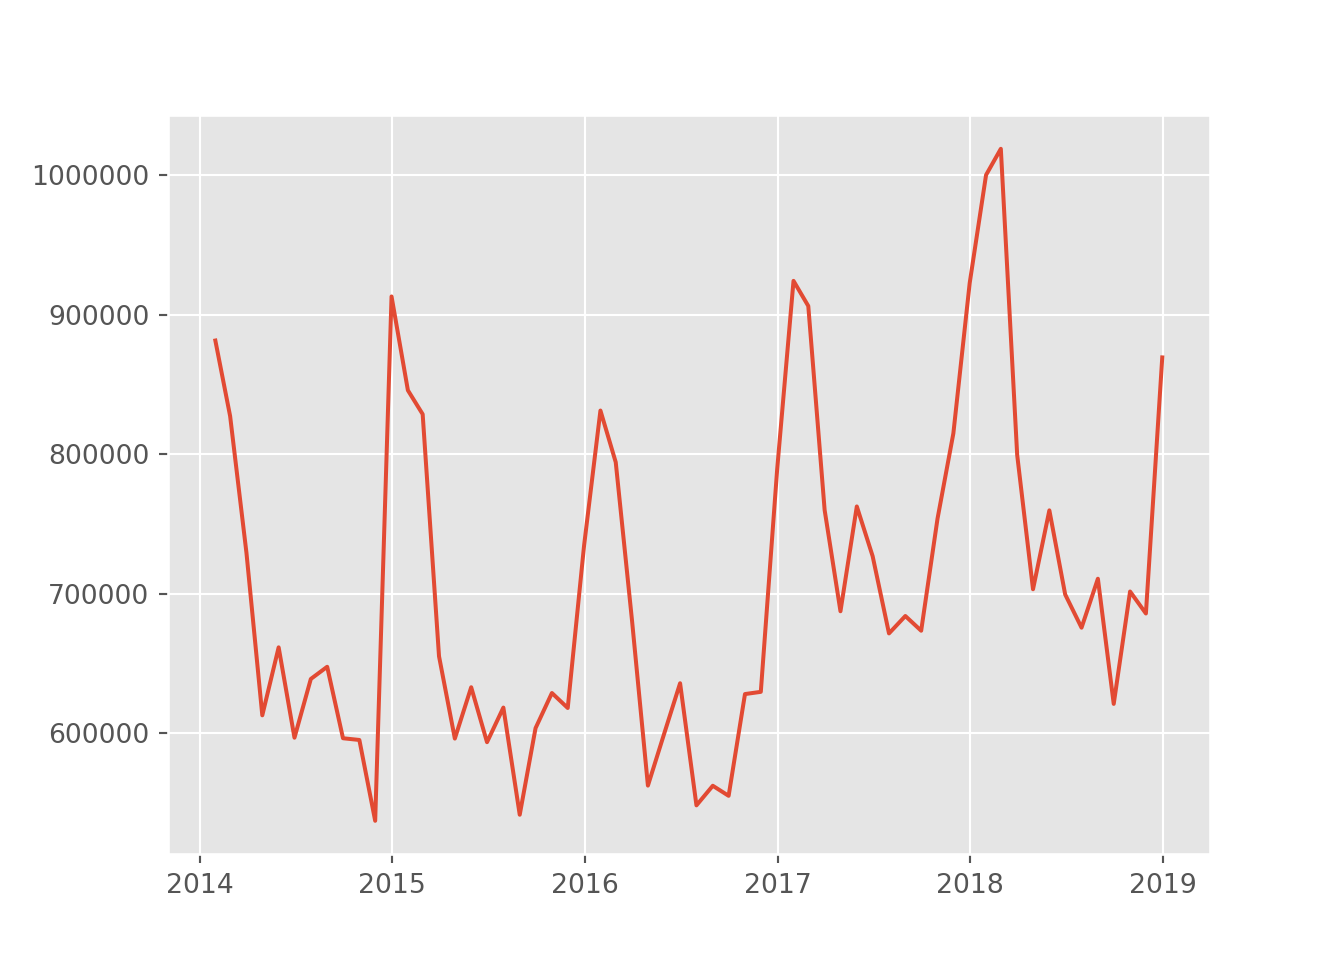
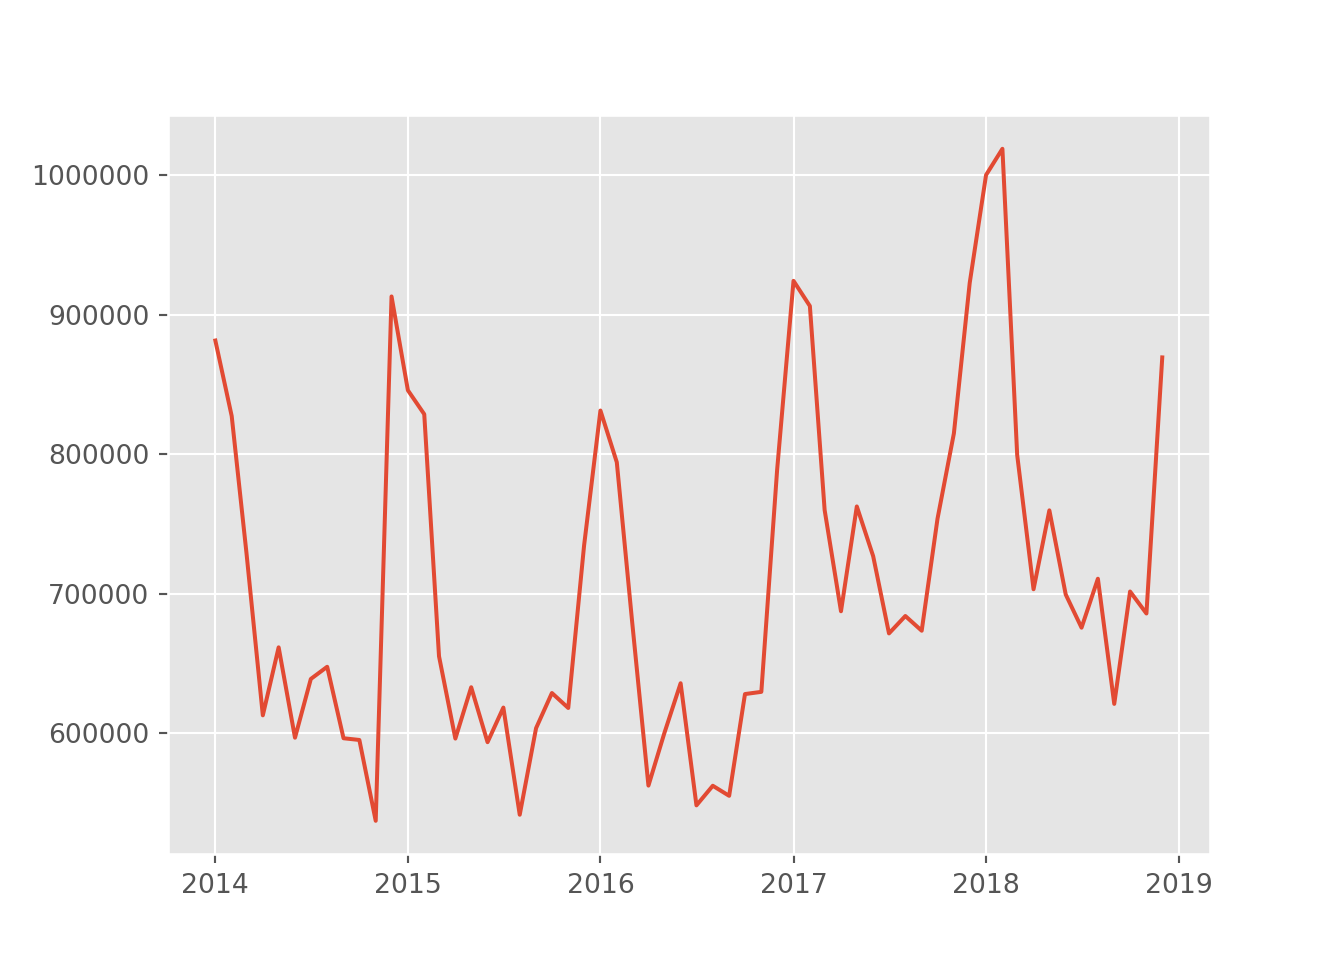
blogup20190818

diff --git a/docs/post/post15/index.html b/docs/post/post15/index.html
@@ -26,7 +26,7 @@
         "datePublished": "2019-08-15 00:00:00 \x2b0000 UTC",
         "dateModified" : "2019-08-15 00:00:00 \x2b0000 UTC",
         "url" : "\/my_blog\/post\/post15\/",
-        "wordCount" : "71",
+        "wordCount" : "159",
         "image" : "/my_blog/img/portfolio/earthengine6.jpg"",
         "keywords" : [ ""Earth Engine"",""Python"",""時系列解析"","Blog" ]   
     }
@@ -47,9 +47,9 @@
 
 <link rel="stylesheet" href="https://use.fontawesome.com/releases/v5.3.1/css/all.css" integrity="sha384-mzrmE5qonljUremFsqc01SB46JvROS7bZs3IO2EmfFsd15uHvIt+Y8vEf7N7fWAU" crossorigin="anonymous">
 
-<link href="/my_blog/css/style.css?v=1566023862" rel="stylesheet" id="theme-stylesheet" type='text/css' media='all'>
+<link href="/my_blog/css/style.css?v=1566138362" rel="stylesheet" id="theme-stylesheet" type='text/css' media='all'>
 
-<link href="/my_blog/css/custom.css?v=1566023862" rel="stylesheet" type='text/css' media='all'>
+<link href="/my_blog/css/custom.css?v=1566138362" rel="stylesheet" type='text/css' media='all'>
 <link rel="shortcut icon" href="/my_blog/img/favicon.ico" type="image/x-icon">
 <link rel="icon" href="/my_blog/img/favicon.ico" type="image/x-icon">
 
@@ -259,12 +259,14 @@ plt.style.use(&#39;ggplot&#39;)
 
 nightjp = nightjp_csv.assign(date=lambda nightjp_csv:pd.to_datetime(nightjp_csv[&#39;system:index&#39;]))
 nightjp.head()</code></pre>
-<pre><code>##   system:index          sum Country       date
-## 0    2014/1/31  881512.4572   Japan 2014-01-31
-## 1    2014/2/28  827345.3551   Japan 2014-02-28
-## 2    2014/3/31  729110.4619   Japan 2014-03-31
-## 3    2014/4/30  612665.8866   Japan 2014-04-30
-## 4    2014/5/31  661434.5027   Japan 2014-05-31</code></pre>
+<pre><code>##   system:index          sum    ...     Unnamed: 4       date
+## 0     2014/1/1  881512.4572    ...            NaN 2014-01-01
+## 1     2014/2/1  827345.3551    ...            NaN 2014-02-01
+## 2     2014/3/1  729110.4619    ...            NaN 2014-03-01
+## 3     2014/4/1  612665.8866    ...            NaN 2014-04-01
+## 4     2014/5/1  661434.5027    ...            NaN 2014-05-01
+## 
+## [5 rows x 6 columns]</code></pre>
 <pre class="python"><code>plt.plot(nightjp[&#39;date&#39;],nightjp[&#39;sum&#39;])</code></pre>
 <p><img src="/my_blog/post/post15_files/figure-html/unnamed-chunk-3-1.png" width="672" /></p>
 <p>かなり季節性があることがわかります。どうやら冬場に光量が大きくなる傾向になるようです。なので、季節調整をかけてみます。RではX-13ARIMA-SEATSをいつも使用していますが、rmarkdownからのpythonでの使い方がわからないので、statsmodels.apiのseasonal_decomposeを使います。冬場とそれ以外で挙動が異なるのでfreqは12にしてみました。</p>
@@ -273,6 +275,25 @@ nightjp = nightjp.set_index(&#39;date&#39;)
 nightjp_sm = sm.tsa.seasonal_decompose(nightjp[&#39;sum&#39;],freq=12,model=&#39;multiplicative&#39;)
 nightjp_sm.plot()</code></pre>
 <p><img src="/my_blog/post/post15_files/figure-html/unnamed-chunk-4-1.png" width="672" /></p>
+<p>季節性を除いたTrendが2016年半ばくらいから2017年下旬にかけて急激に上昇しています。おそらく、景況感とはあまり相関がなさそうな動きをしていますが、以下の記事を参考にestatからAPIで鉱工業生産指数のデータを落とし、検証してみます。</p>
+<p><a href="http://sinhrks.hatenablog.com/entry/2015/12/31/222207" class="uri">http://sinhrks.hatenablog.com/entry/2015/12/31/222207</a></p>
+<pre class="python"><code>import numpy as np
+import japandas as jpd
+import datetime 
+
+dlist = jpd.DataReader(&quot;00550300&quot;, &#39;estat&#39;, appid=key)
+tables = dlist[(dlist[&#39;統計表題名及び表番号&#39;].str.contains(&#39;付加価値額生産&#39;)) &amp; (dlist[&#39;提供統計名及び提供分類名&#39;].str.contains(&#39;鉱工業生産・出荷・在庫指数&#39;))]
+data = jpd.DataReader(&quot;0003325360&quot;, &#39;estat&#39;, appid=key)
+df = data[(data[&#39;業種別&#39;].str.contains(&#39;1000000000 鉱工業&#39;)) &amp; ~(data[&#39;統計項目A&#39;].str.contains(&#39;付加生産ウエイト&#39;))]
+df = df.set_index(pd.to_datetime(df[&quot;統計項目A&quot;], format=&quot;%Y%m&quot;))
+df.head()</code></pre>
+<pre><code>##             value             業種別   統計項目A
+## 統計項目A                                    
+## 2013-01-01   94.8  1000000000 鉱工業  201301
+## 2013-02-01   96.5  1000000000 鉱工業  201302
+## 2013-03-01   97.7  1000000000 鉱工業  201303
+## 2013-04-01   97.7  1000000000 鉱工業  201304
+## 2013-05-01   99.3  1000000000 鉱工業  201305</code></pre>
 
             </article>
           </div>
@@ -481,7 +502,7 @@ src="//cdn.bootcss.com/mathjax/2.7.1/MathJax.js?config=TeX-MML-AM_CHTML">
   </div>
   <script src="/my_blog/js/jquery.min.js"></script>
 <script src="/my_blog/js/jquerymigrate.js"></script>
-<script src="/my_blog/js/production.min.js?v=1566023862"></script>
+<script src="/my_blog/js/production.min.js?v=1566138362"></script>
 
 </body>
 </html>

diff --git a/content/post/post15.html b/content/post/post15.html
@@ -27,12 +27,14 @@ plt.style.use(&#39;ggplot&#39;)
 
 nightjp = nightjp_csv.assign(date=lambda nightjp_csv:pd.to_datetime(nightjp_csv[&#39;system:index&#39;]))
 nightjp.head()</code></pre>
-<pre><code>##   system:index          sum Country       date
-## 0    2014/1/31  881512.4572   Japan 2014-01-31
-## 1    2014/2/28  827345.3551   Japan 2014-02-28
-## 2    2014/3/31  729110.4619   Japan 2014-03-31
-## 3    2014/4/30  612665.8866   Japan 2014-04-30
-## 4    2014/5/31  661434.5027   Japan 2014-05-31</code></pre>
+<pre><code>##   system:index          sum    ...     Unnamed: 4       date
+## 0     2014/1/1  881512.4572    ...            NaN 2014-01-01
+## 1     2014/2/1  827345.3551    ...            NaN 2014-02-01
+## 2     2014/3/1  729110.4619    ...            NaN 2014-03-01
+## 3     2014/4/1  612665.8866    ...            NaN 2014-04-01
+## 4     2014/5/1  661434.5027    ...            NaN 2014-05-01
+## 
+## [5 rows x 6 columns]</code></pre>
 <pre class="python"><code>plt.plot(nightjp[&#39;date&#39;],nightjp[&#39;sum&#39;])</code></pre>
 <p><img src="/my_blog/post/post15_files/figure-html/unnamed-chunk-3-1.png" width="672" /></p>
 <p>かなり季節性があることがわかります。どうやら冬場に光量が大きくなる傾向になるようです。なので、季節調整をかけてみます。RではX-13ARIMA-SEATSをいつも使用していますが、rmarkdownからのpythonでの使い方がわからないので、statsmodels.apiのseasonal_decomposeを使います。冬場とそれ以外で挙動が異なるのでfreqは12にしてみました。</p>
@@ -41,3 +43,22 @@ nightjp = nightjp.set_index(&#39;date&#39;)
 nightjp_sm = sm.tsa.seasonal_decompose(nightjp[&#39;sum&#39;],freq=12,model=&#39;multiplicative&#39;)
 nightjp_sm.plot()</code></pre>
 <p><img src="/my_blog/post/post15_files/figure-html/unnamed-chunk-4-1.png" width="672" /></p>
+<p>季節性を除いたTrendが2016年半ばくらいから2017年下旬にかけて急激に上昇しています。おそらく、景況感とはあまり相関がなさそうな動きをしていますが、以下の記事を参考にestatからAPIで鉱工業生産指数のデータを落とし、検証してみます。</p>
+<p><a href="http://sinhrks.hatenablog.com/entry/2015/12/31/222207" class="uri">http://sinhrks.hatenablog.com/entry/2015/12/31/222207</a></p>
+<pre class="python"><code>import numpy as np
+import japandas as jpd
+import datetime 
+
+dlist = jpd.DataReader(&quot;00550300&quot;, &#39;estat&#39;, appid=key)
+tables = dlist[(dlist[&#39;統計表題名及び表番号&#39;].str.contains(&#39;付加価値額生産&#39;)) &amp; (dlist[&#39;提供統計名及び提供分類名&#39;].str.contains(&#39;鉱工業生産・出荷・在庫指数&#39;))]
+data = jpd.DataReader(&quot;0003325360&quot;, &#39;estat&#39;, appid=key)
+df = data[(data[&#39;業種別&#39;].str.contains(&#39;1000000000 鉱工業&#39;)) &amp; ~(data[&#39;統計項目A&#39;].str.contains(&#39;付加生産ウエイト&#39;))]
+df = df.set_index(pd.to_datetime(df[&quot;統計項目A&quot;], format=&quot;%Y%m&quot;))
+df.head()</code></pre>
+<pre><code>##             value             業種別   統計項目A
+## 統計項目A                                    
+## 2013-01-01   94.8  1000000000 鉱工業  201301
+## 2013-02-01   96.5  1000000000 鉱工業  201302
+## 2013-03-01   97.7  1000000000 鉱工業  201303
+## 2013-04-01   97.7  1000000000 鉱工業  201304
+## 2013-05-01   99.3  1000000000 鉱工業  201305</code></pre>

diff --git a/docs/post/post5/index.html b/docs/post/post5/index.html
@@ -47,9 +47,9 @@
 
 <link rel="stylesheet" href="https://use.fontawesome.com/releases/v5.3.1/css/all.css" integrity="sha384-mzrmE5qonljUremFsqc01SB46JvROS7bZs3IO2EmfFsd15uHvIt+Y8vEf7N7fWAU" crossorigin="anonymous">
 
-<link href="/my_blog/css/style.css?v=1566023863" rel="stylesheet" id="theme-stylesheet" type='text/css' media='all'>
+<link href="/my_blog/css/style.css?v=1566138362" rel="stylesheet" id="theme-stylesheet" type='text/css' media='all'>
 
-<link href="/my_blog/css/custom.css?v=1566023863" rel="stylesheet" type='text/css' media='all'>
+<link href="/my_blog/css/custom.css?v=1566138362" rel="stylesheet" type='text/css' media='all'>
 <link rel="shortcut icon" href="/my_blog/img/favicon.ico" type="image/x-icon">
 <link rel="icon" href="/my_blog/img/favicon.ico" type="image/x-icon">
 
@@ -1410,7 +1410,7 @@ src="//cdn.bootcss.com/mathjax/2.7.1/MathJax.js?config=TeX-MML-AM_CHTML">
   </div>
   <script src="/my_blog/js/jquery.min.js"></script>
 <script src="/my_blog/js/jquerymigrate.js"></script>
-<script src="/my_blog/js/production.min.js?v=1566023863"></script>
+<script src="/my_blog/js/production.min.js?v=1566138362"></script>
 
 </body>
 </html>

diff --git a/docs/about/index.html b/docs/about/index.html
@@ -47,9 +47,9 @@
 
 <link rel="stylesheet" href="https://use.fontawesome.com/releases/v5.3.1/css/all.css" integrity="sha384-mzrmE5qonljUremFsqc01SB46JvROS7bZs3IO2EmfFsd15uHvIt+Y8vEf7N7fWAU" crossorigin="anonymous">
 
-<link href="/my_blog/css/style.css?v=1566023863" rel="stylesheet" id="theme-stylesheet" type='text/css' media='all'>
+<link href="/my_blog/css/style.css?v=1566138362" rel="stylesheet" id="theme-stylesheet" type='text/css' media='all'>
 
-<link href="/my_blog/css/custom.css?v=1566023863" rel="stylesheet" type='text/css' media='all'>
+<link href="/my_blog/css/custom.css?v=1566138362" rel="stylesheet" type='text/css' media='all'>
 <link rel="shortcut icon" href="/my_blog/img/favicon.ico" type="image/x-icon">
 <link rel="icon" href="/my_blog/img/favicon.ico" type="image/x-icon">
 
@@ -444,7 +444,7 @@ src="//cdn.bootcss.com/mathjax/2.7.1/MathJax.js?config=TeX-MML-AM_CHTML">
   </div>
   <script src="/my_blog/js/jquery.min.js"></script>
 <script src="/my_blog/js/jquerymigrate.js"></script>
-<script src="/my_blog/js/production.min.js?v=1566023863"></script>
+<script src="/my_blog/js/production.min.js?v=1566138362"></script>
 
 </body>
 </html>

diff --git a/docs/contact/index.html b/docs/contact/index.html
@@ -47,9 +47,9 @@
 
 <link rel="stylesheet" href="https://use.fontawesome.com/releases/v5.3.1/css/all.css" integrity="sha384-mzrmE5qonljUremFsqc01SB46JvROS7bZs3IO2EmfFsd15uHvIt+Y8vEf7N7fWAU" crossorigin="anonymous">
 
-<link href="/my_blog/css/style.css?v=1566023863" rel="stylesheet" id="theme-stylesheet" type='text/css' media='all'>
+<link href="/my_blog/css/style.css?v=1566138362" rel="stylesheet" id="theme-stylesheet" type='text/css' media='all'>
 
-<link href="/my_blog/css/custom.css?v=1566023863" rel="stylesheet" type='text/css' media='all'>
+<link href="/my_blog/css/custom.css?v=1566138362" rel="stylesheet" type='text/css' media='all'>
 <link rel="shortcut icon" href="/my_blog/img/favicon.ico" type="image/x-icon">
 <link rel="icon" href="/my_blog/img/favicon.ico" type="image/x-icon">
 
@@ -369,7 +369,7 @@ src="//cdn.bootcss.com/mathjax/2.7.1/MathJax.js?config=TeX-MML-AM_CHTML">
   </div>
   <script src="/my_blog/js/jquery.min.js"></script>
 <script src="/my_blog/js/jquerymigrate.js"></script>
-<script src="/my_blog/js/production.min.js?v=1566023863"></script>
+<script src="/my_blog/js/production.min.js?v=1566138362"></script>
 
 </body>
 </html>

diff --git a/docs/index.html b/docs/index.html
@@ -48,9 +48,9 @@
 
 <link rel="stylesheet" href="https://use.fontawesome.com/releases/v5.3.1/css/all.css" integrity="sha384-mzrmE5qonljUremFsqc01SB46JvROS7bZs3IO2EmfFsd15uHvIt+Y8vEf7N7fWAU" crossorigin="anonymous">
 
-<link href="/my_blog/css/style.css?v=1566023862" rel="stylesheet" id="theme-stylesheet" type='text/css' media='all'>
+<link href="/my_blog/css/style.css?v=1566138362" rel="stylesheet" id="theme-stylesheet" type='text/css' media='all'>
 
-<link href="/my_blog/css/custom.css?v=1566023862" rel="stylesheet" type='text/css' media='all'>
+<link href="/my_blog/css/custom.css?v=1566138362" rel="stylesheet" type='text/css' media='all'>
 <link rel="shortcut icon" href="/my_blog/img/favicon.ico" type="image/x-icon">
 <link rel="icon" href="/my_blog/img/favicon.ico" type="image/x-icon">
 
@@ -777,7 +777,7 @@ src="//cdn.bootcss.com/mathjax/2.7.1/MathJax.js?config=TeX-MML-AM_CHTML">
   </div>
   <script src="/my_blog/js/jquery.min.js"></script>
 <script src="/my_blog/js/jquerymigrate.js"></script>
-<script src="/my_blog/js/production.min.js?v=1566023862"></script>
+<script src="/my_blog/js/production.min.js?v=1566138362"></script>
 
 </body>
 </html>

diff --git a/docs/page/2/index.html b/docs/page/2/index.html
@@ -48,9 +48,9 @@
 
 <link rel="stylesheet" href="https://use.fontawesome.com/releases/v5.3.1/css/all.css" integrity="sha384-mzrmE5qonljUremFsqc01SB46JvROS7bZs3IO2EmfFsd15uHvIt+Y8vEf7N7fWAU" crossorigin="anonymous">
 
-<link href="/my_blog/css/style.css?v=1566023863" rel="stylesheet" id="theme-stylesheet" type='text/css' media='all'>
+<link href="/my_blog/css/style.css?v=1566138362" rel="stylesheet" id="theme-stylesheet" type='text/css' media='all'>
 
-<link href="/my_blog/css/custom.css?v=1566023863" rel="stylesheet" type='text/css' media='all'>
+<link href="/my_blog/css/custom.css?v=1566138362" rel="stylesheet" type='text/css' media='all'>
 <link rel="shortcut icon" href="/my_blog/img/favicon.ico" type="image/x-icon">
 <link rel="icon" href="/my_blog/img/favicon.ico" type="image/x-icon">
 
@@ -965,7 +965,7 @@ src="//cdn.bootcss.com/mathjax/2.7.1/MathJax.js?config=TeX-MML-AM_CHTML">
   </div>
   <script src="/my_blog/js/jquery.min.js"></script>
 <script src="/my_blog/js/jquerymigrate.js"></script>
-<script src="/my_blog/js/production.min.js?v=1566023863"></script>
+<script src="/my_blog/js/production.min.js?v=1566138362"></script>
 
 </body>
 </html>

diff --git a/docs/page/3/index.html b/docs/page/3/index.html
@@ -48,9 +48,9 @@
 
 <link rel="stylesheet" href="https://use.fontawesome.com/releases/v5.3.1/css/all.css" integrity="sha384-mzrmE5qonljUremFsqc01SB46JvROS7bZs3IO2EmfFsd15uHvIt+Y8vEf7N7fWAU" crossorigin="anonymous">
 
-<link href="/my_blog/css/style.css?v=1566023863" rel="stylesheet" id="theme-stylesheet" type='text/css' media='all'>
+<link href="/my_blog/css/style.css?v=1566138362" rel="stylesheet" id="theme-stylesheet" type='text/css' media='all'>
 
-<link href="/my_blog/css/custom.css?v=1566023863" rel="stylesheet" type='text/css' media='all'>
+<link href="/my_blog/css/custom.css?v=1566138362" rel="stylesheet" type='text/css' media='all'>
 <link rel="shortcut icon" href="/my_blog/img/favicon.ico" type="image/x-icon">
 <link rel="icon" href="/my_blog/img/favicon.ico" type="image/x-icon">
 
@@ -640,7 +640,7 @@ src="//cdn.bootcss.com/mathjax/2.7.1/MathJax.js?config=TeX-MML-AM_CHTML">
   </div>
   <script src="/my_blog/js/jquery.min.js"></script>
 <script src="/my_blog/js/jquerymigrate.js"></script>
-<script src="/my_blog/js/production.min.js?v=1566023863"></script>
+<script src="/my_blog/js/production.min.js?v=1566138362"></script>
 
 </body>
 </html>

diff --git a/docs/post/post10/index.html b/docs/post/post10/index.html
@@ -47,9 +47,9 @@
 
 <link rel="stylesheet" href="https://use.fontawesome.com/releases/v5.3.1/css/all.css" integrity="sha384-mzrmE5qonljUremFsqc01SB46JvROS7bZs3IO2EmfFsd15uHvIt+Y8vEf7N7fWAU" crossorigin="anonymous">
 
-<link href="/my_blog/css/style.css?v=1566023863" rel="stylesheet" id="theme-stylesheet" type='text/css' media='all'>
+<link href="/my_blog/css/style.css?v=1566138362" rel="stylesheet" id="theme-stylesheet" type='text/css' media='all'>
 
-<link href="/my_blog/css/custom.css?v=1566023863" rel="stylesheet" type='text/css' media='all'>
+<link href="/my_blog/css/custom.css?v=1566138362" rel="stylesheet" type='text/css' media='all'>
 <link rel="shortcut icon" href="/my_blog/img/favicon.ico" type="image/x-icon">
 <link rel="icon" href="/my_blog/img/favicon.ico" type="image/x-icon">
 
@@ -711,7 +711,7 @@ src="//cdn.bootcss.com/mathjax/2.7.1/MathJax.js?config=TeX-MML-AM_CHTML">
   </div>
   <script src="/my_blog/js/jquery.min.js"></script>
 <script src="/my_blog/js/jquerymigrate.js"></script>
-<script src="/my_blog/js/production.min.js?v=1566023863"></script>
+<script src="/my_blog/js/production.min.js?v=1566138362"></script>
 
 </body>
 </html>

diff --git a/docs/post/post11/index.html b/docs/post/post11/index.html
@@ -47,9 +47,9 @@
 
 <link rel="stylesheet" href="https://use.fontawesome.com/releases/v5.3.1/css/all.css" integrity="sha384-mzrmE5qonljUremFsqc01SB46JvROS7bZs3IO2EmfFsd15uHvIt+Y8vEf7N7fWAU" crossorigin="anonymous">
 
-<link href="/my_blog/css/style.css?v=1566023862" rel="stylesheet" id="theme-stylesheet" type='text/css' media='all'>
+<link href="/my_blog/css/style.css?v=1566138362" rel="stylesheet" id="theme-stylesheet" type='text/css' media='all'>
 
-<link href="/my_blog/css/custom.css?v=1566023862" rel="stylesheet" type='text/css' media='all'>
+<link href="/my_blog/css/custom.css?v=1566138362" rel="stylesheet" type='text/css' media='all'>
 <link rel="shortcut icon" href="/my_blog/img/favicon.ico" type="image/x-icon">
 <link rel="icon" href="/my_blog/img/favicon.ico" type="image/x-icon">
 
@@ -680,7 +680,7 @@ src="//cdn.bootcss.com/mathjax/2.7.1/MathJax.js?config=TeX-MML-AM_CHTML">
   </div>
   <script src="/my_blog/js/jquery.min.js"></script>
 <script src="/my_blog/js/jquerymigrate.js"></script>
-<script src="/my_blog/js/production.min.js?v=1566023863"></script>
+<script src="/my_blog/js/production.min.js?v=1566138362"></script>
 
 </body>
 </html>

diff --git a/docs/post/post13/index.html b/docs/post/post13/index.html
@@ -47,9 +47,9 @@
 
 <link rel="stylesheet" href="https://use.fontawesome.com/releases/v5.3.1/css/all.css" integrity="sha384-mzrmE5qonljUremFsqc01SB46JvROS7bZs3IO2EmfFsd15uHvIt+Y8vEf7N7fWAU" crossorigin="anonymous">
 
-<link href="/my_blog/css/style.css?v=1566023862" rel="stylesheet" id="theme-stylesheet" type='text/css' media='all'>
+<link href="/my_blog/css/style.css?v=1566138362" rel="stylesheet" id="theme-stylesheet" type='text/css' media='all'>
 
-<link href="/my_blog/css/custom.css?v=1566023862" rel="stylesheet" type='text/css' media='all'>
+<link href="/my_blog/css/custom.css?v=1566138362" rel="stylesheet" type='text/css' media='all'>
 <link rel="shortcut icon" href="/my_blog/img/favicon.ico" type="image/x-icon">
 <link rel="icon" href="/my_blog/img/favicon.ico" type="image/x-icon">
 
@@ -783,7 +783,7 @@ src="//cdn.bootcss.com/mathjax/2.7.1/MathJax.js?config=TeX-MML-AM_CHTML">
   </div>
   <script src="/my_blog/js/jquery.min.js"></script>
 <script src="/my_blog/js/jquerymigrate.js"></script>
-<script src="/my_blog/js/production.min.js?v=1566023863"></script>
+<script src="/my_blog/js/production.min.js?v=1566138362"></script>
 
 </body>
 </html>

diff --git a/docs/post/post14/index.html b/docs/post/post14/index.html
@@ -47,9 +47,9 @@
 
 <link rel="stylesheet" href="https://use.fontawesome.com/releases/v5.3.1/css/all.css" integrity="sha384-mzrmE5qonljUremFsqc01SB46JvROS7bZs3IO2EmfFsd15uHvIt+Y8vEf7N7fWAU" crossorigin="anonymous">
 
-<link href="/my_blog/css/style.css?v=1566023862" rel="stylesheet" id="theme-stylesheet" type='text/css' media='all'>
+<link href="/my_blog/css/style.css?v=1566138362" rel="stylesheet" id="theme-stylesheet" type='text/css' media='all'>
 
-<link href="/my_blog/css/custom.css?v=1566023862" rel="stylesheet" type='text/css' media='all'>
+<link href="/my_blog/css/custom.css?v=1566138362" rel="stylesheet" type='text/css' media='all'>
 <link rel="shortcut icon" href="/my_blog/img/favicon.ico" type="image/x-icon">
 <link rel="icon" href="/my_blog/img/favicon.ico" type="image/x-icon">
 
@@ -554,7 +554,7 @@ src="//cdn.bootcss.com/mathjax/2.7.1/MathJax.js?config=TeX-MML-AM_CHTML">
   </div>
   <script src="/my_blog/js/jquery.min.js"></script>
 <script src="/my_blog/js/jquerymigrate.js"></script>
-<script src="/my_blog/js/production.min.js?v=1566023862"></script>
+<script src="/my_blog/js/production.min.js?v=1566138362"></script>
 
 </body>
 </html>
